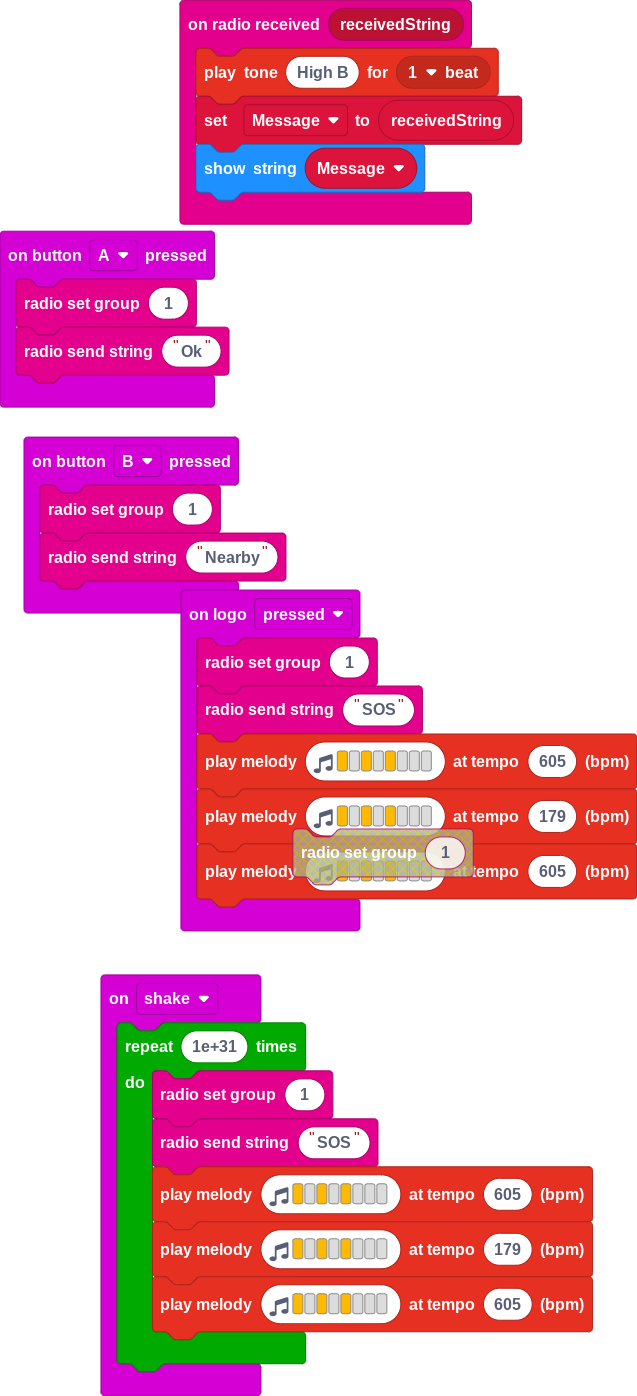
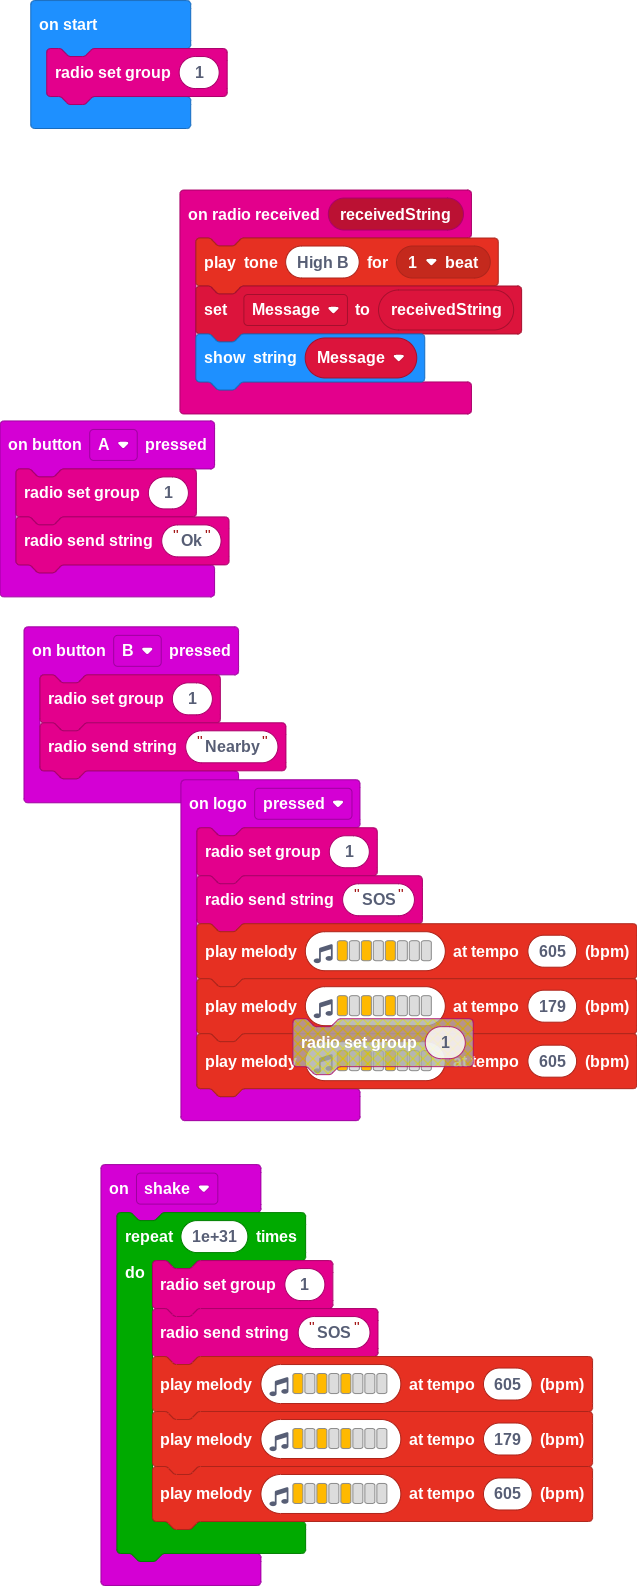
Fixed bugs

diff --git a/main.ts b/main.ts
@@ -1,4 +1,3 @@
-let Message = ""
 input.onButtonPressed(Button.A, function () {
     radio.setGroup(1)
     radio.sendString("Ok")
@@ -28,3 +27,5 @@ input.onLogoEvent(TouchButtonEvent.Pressed, function () {
     music.playMelody("A - A - A - - - ", 179)
     music.playMelody("A - A - A - - - ", 605)
 })
+let Message = ""
+radio.setGroup(1)
